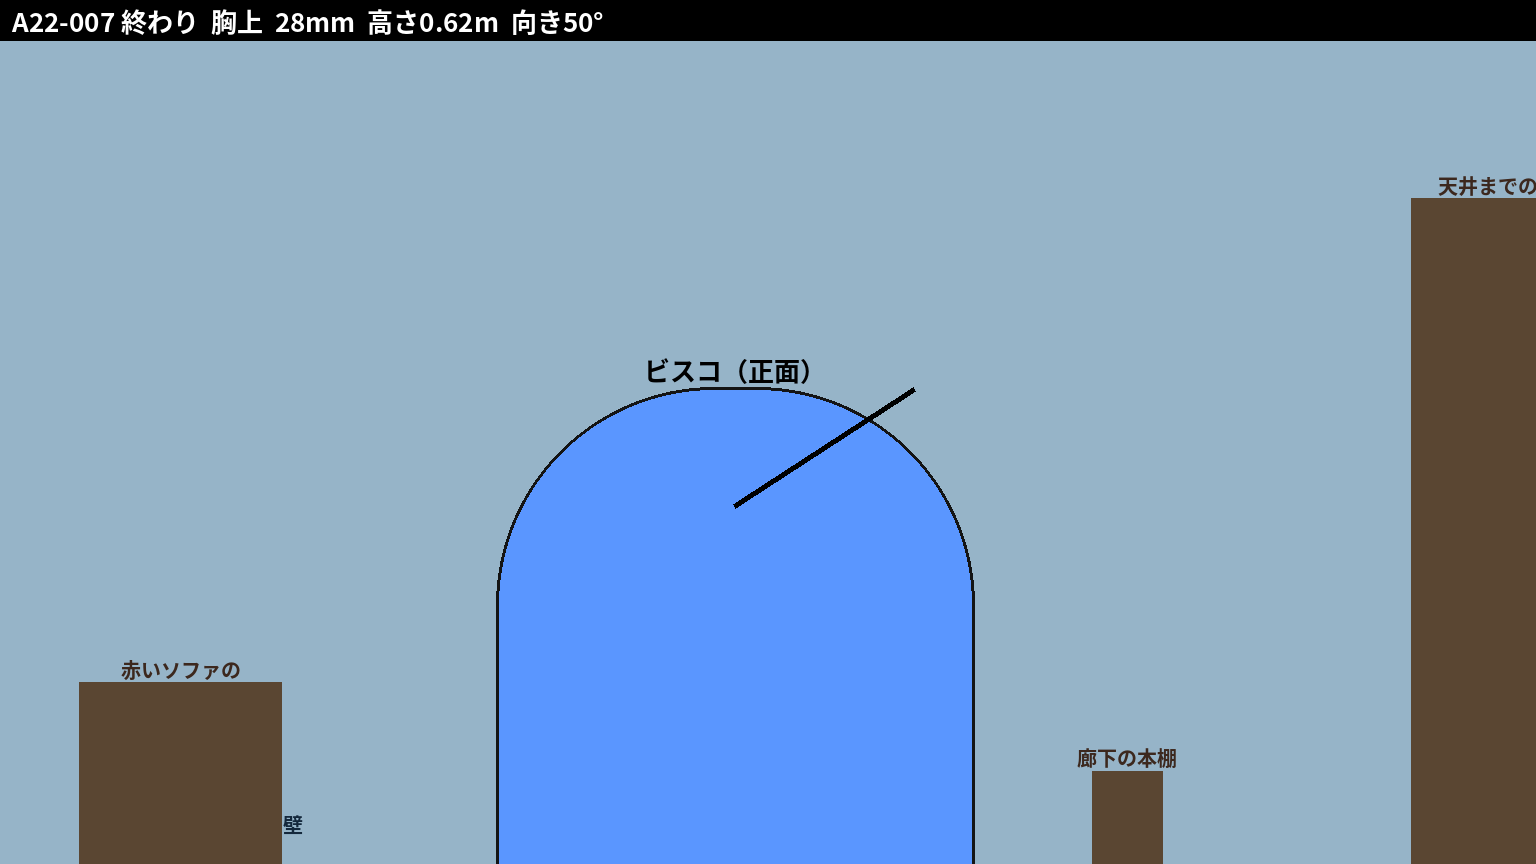
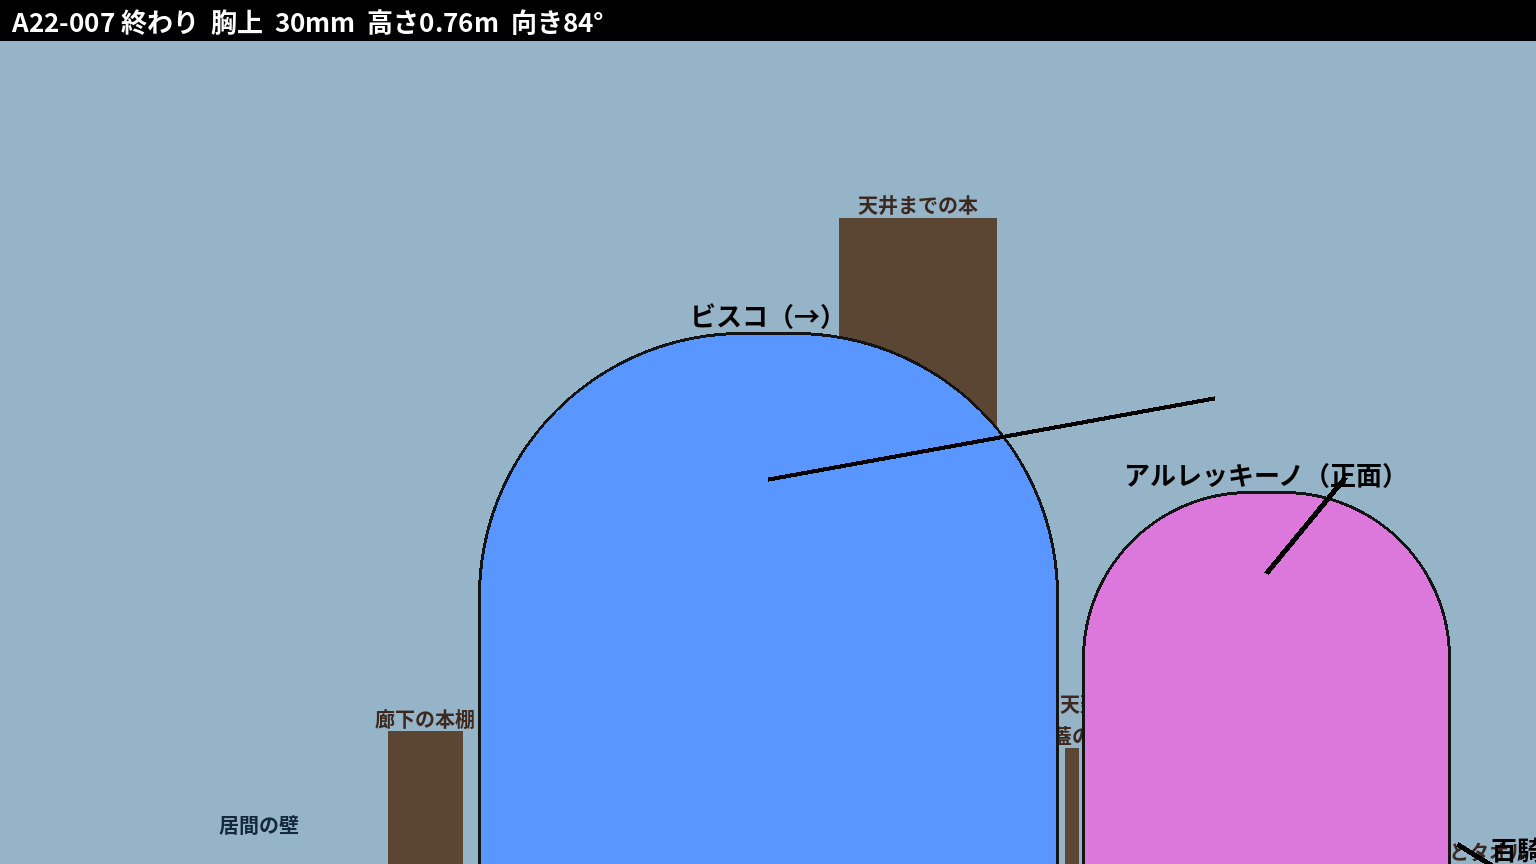
A22 の下絵を見て直した所: 002b（アルレッキーノが手前で大きかった）を玄関の側から、007（テーブルの側面でビスコが隠れていた）をソファとテーブルの間のすき間から。A22 のコマの確認画像
Claude-Session: https://claude.ai/code/session_01FyK1WdEaeQGeKaEDy9qXMG

diff --git a/episodes/A/scenes/A22/gen/staging_report.md b/episodes/A/scenes/A22/gen/staging_report.md
@@ -7,13 +7,13 @@
 | --- | --- | --- | --- | --- | --- |
 | 001 | 全身 | 高台の西・24mm・3° | ル（左・横顔（画面右向き））、ビ（中央・正面）、ア（右・斜め前（画面左向き）） | ル（左・斜め前（画面右向き））、ビ（中央・斜め前（画面左向き））、百（右・横顔（画面左向き））、ア（右・斜め前（画面左向き）） | 居間の壁 |
 | 002 | 全身 | 高台の西・30mm・38° | ビ（左・斜め前（画面左向き））、ア（右・正面） | ビ（中央・正面）、百（右・横顔（画面左向き）） | 居間の壁 |
-| 02b | 胸上 | 高台の中ほど・28mm・329° | ル（左・斜め前（画面右向き））、マ（中央・背中）、ビ（中央・斜め前（画面左向き））、百（中央・背中）、ア（右・横顔（画面左向き）） | ル（左・斜め前（画面右向き））、マ（中央・斜め前（画面右向き））、ビ（中央・正面）、百（中央・背中）、ア（右・横顔（画面左向き）） | 居間の壁 |
+| 02b | 胸上 | 高台の中ほど・28mm・342° | ル（左・斜め前（画面右向き））、ビ（中央・斜め前（画面左向き））、マ（中央・斜め後ろ（画面左向き））、百（中央・斜め後ろ（画面左向き））、ア（右・斜め前（画面左向き）） | ル（左・斜め前（画面右向き））、マ（中央・横顔（画面右向き））、ビ（中央・正面）、百（中央・斜め後ろ（画面左向き））、ア（右・斜め前（画面左向き）） | 居間の壁 |
 | 003 | 引き | 高台の西・22mm・57° | ル（左・斜め後ろ（画面右向き））、マ（中央・背中）、ビ（中央・横顔（画面右向き））、ア（中央・正面）、百（中央・横顔（画面左向き）） | ル（左・横顔（画面右向き））、ビ（中央・正面）、ア（中央・正面）、百（中央・正面）、マ（右・正面） | 居間の壁 |
 | 004 | 胸上 | 高台の西・低め・30mm・318° | ル（中央・正面） | ル（中央・正面）、マ（右・横顔（画面左向き）） | 居間の壁 |
 | 005 | 全身 | 高台の西・低め・26mm・9° | ビ（右・正面） | マ（左・斜め前（画面左向き））、ビ（中央・正面） | 居間の壁 |
 | 006 | 胸上 | 崖の縁・30mm・193° | ル（中央・横顔（画面左向き）） | ア（左・斜め前（画面右向き））、百（中央・正面）、マ（中央・正面） | 居間の壁 |
 | 06b | 胸上 | 高台の西・30mm・342° | マ（中央・斜め後ろ（画面左向き））、ビ（中央・正面） | マ（中央・正面）、ビ（右・正面） | 居間の壁 |
-| 007 | 胸上 | 高台の西・低め・24mm・46° | ビ（中央・正面）、マ（中央・横顔（画面右向き）） | ビ（中央・正面）、マ（右・斜め前（画面左向き）） | 居間の壁 |
+| 007 | 胸上 | 崖の縁・低め・26mm・78° | ビ（中央・斜め前（画面右向き））、ア（右・斜め前（画面右向き））、マ（右・斜め後ろ（画面右向き））、百（右・正面） | ビ（中央・斜め前（画面右向き））、マ（右・正面）、ア（右・斜め前（画面右向き））、百（右・正面） | 居間の壁 |
 | 07b | 全身 | 高台の西・30mm・15° | ビ（中央・正面）、マ（中央・横顔（画面左向き）） | ビ（左・斜め前（画面右向き））、マ（中央・横顔（画面左向き）） | 居間の壁 |
 | 008 | 胸上 | 高台の西・低め・24mm・350° | ビ（左・斜め前（画面右向き））、マ（右・横顔（画面左向き）） | ビ（左・斜め前（画面右向き））、マ（右・斜め前（画面左向き）） | 居間の壁 |
 | 009 | 胸上 | 高台の西・30mm・337° | ビ（中央・斜め前（画面右向き））、マ（右・横顔（画面左向き）） | マ（中央・正面）、ビ（中央・斜め前（画面左向き）） | 居間の壁 |
